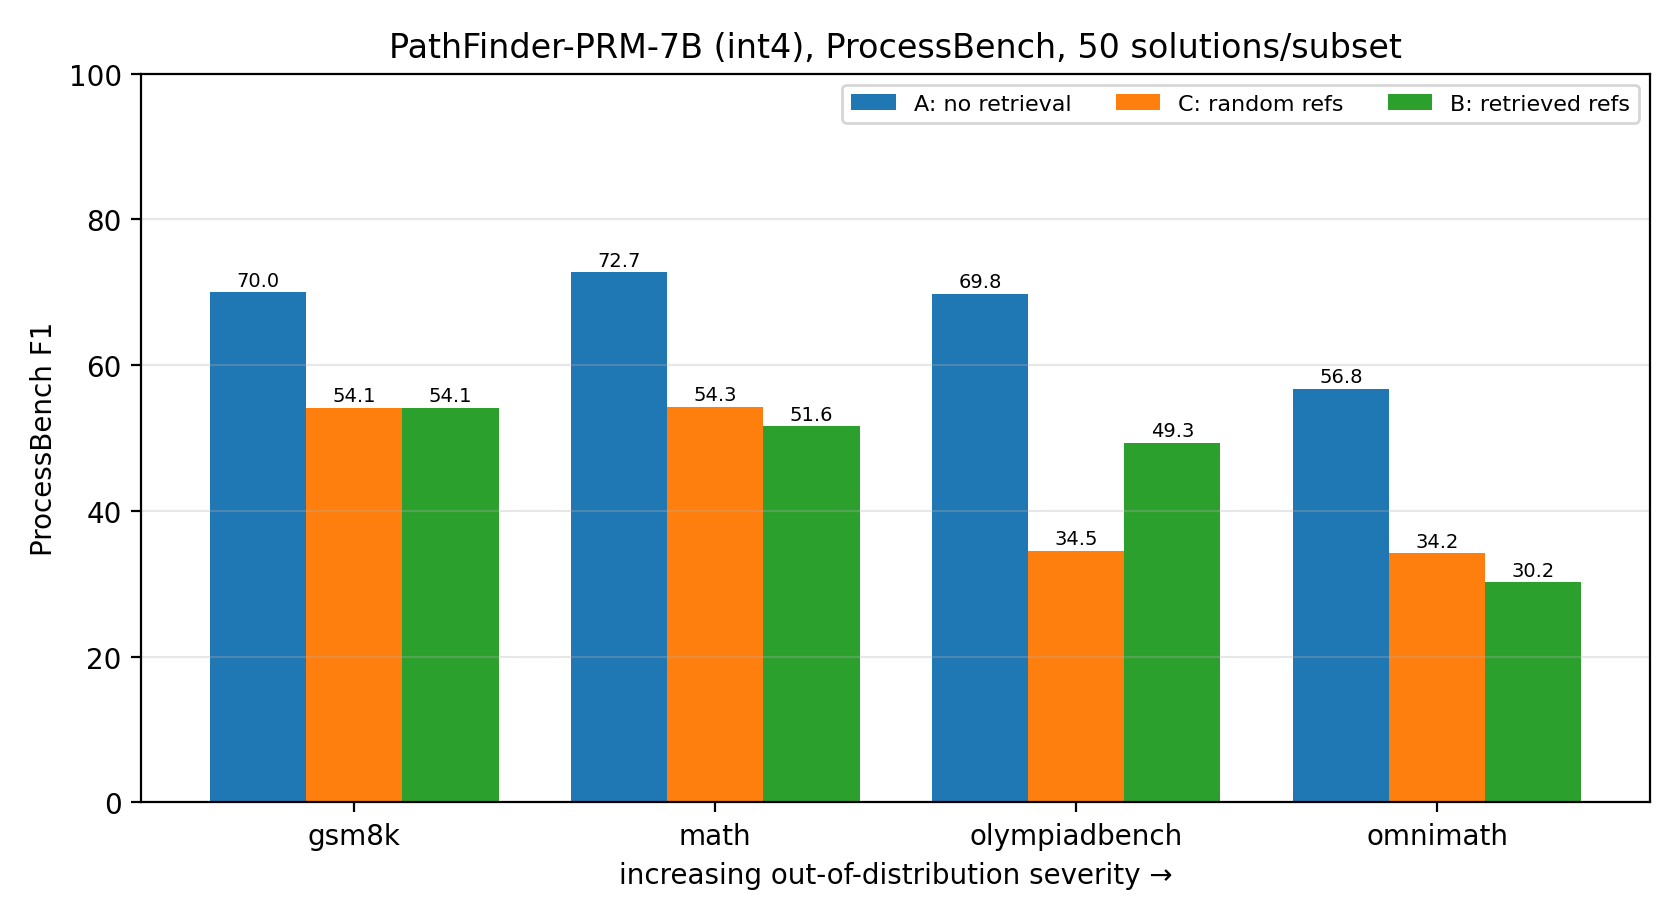
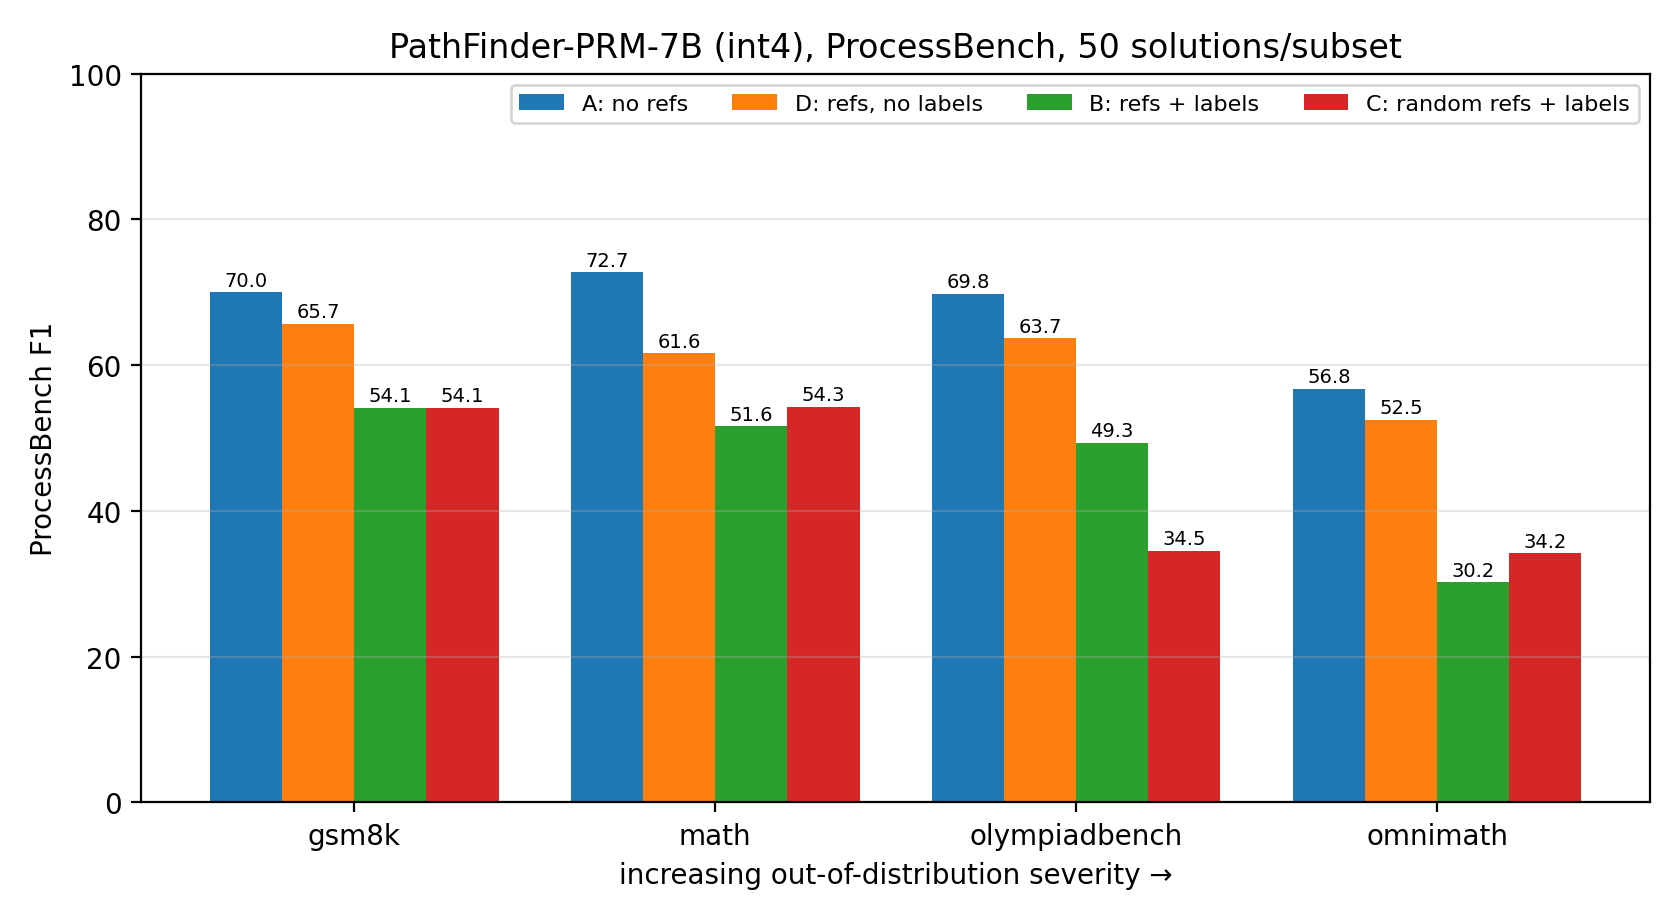
docs: decompose the context penalty with the unlabelled-reference arm
Condition D runs Condition B's retrieval with prompt.include_reference_labels
off, which is the one comparison that separates "the references are in the
prompt" from "the references carry the model's own verdict tokens".

    A  no references                    67.3
    D  references, labels stripped      60.9   -6.5 vs A
    B  references with gold labels      46.3  -21.0 vs A
    C  random references, gold labels   44.3  -23.0 vs A

D to B is -14.6 with a 95% interval of [-22.0, -7.1] and 50 discordant
solutions at p < 0.0001, holding at -15.6 after contamination cleaning. A to D
is -6.5, marginal on the full sample and straddling zero once contaminated items
are dropped. So roughly two thirds of the penalty arrives with a single rendered
line per reference, and the reference text itself costs little that this sample
can demonstrate.

The verdict profile says the same thing behaviourally. The labelled arms condemn
steps about a step earlier than the truth and halt after 3.7 steps instead of
4.9; D sits next to the baseline at +0.12 index offset and 4.6 steps. The
decision point moves when the model is shown <+> and <-> in its context, not
when the prompt merely gets longer.

Whether the tokens themselves are the cause, as opposed to the extra line or the
judgement it expresses, is untested and listed as such. Rendering the same
judgements as plain words would separate the two cheaply.

diff --git a/docs/RESULTS.md b/docs/RESULTS.md
@@ -4,13 +4,24 @@ Run on 17 September 2026, RTX 5070 Laptop (8 GB), PathFinder-PRM-7B quantised to
 torchao. Four conditions, 50 solutions per ProcessBench subset, 200 solutions per arm, the
 same 200 solutions in every arm.
 
-**Retrieval does not help PathFinder-PRM's error typing. Putting reference examples in the
-prompt at all costs about 21 F1 points, and whether those references are relevant makes no
-measurable difference.**
+**Retrieval does not help PathFinder-PRM's error typing, and most of what goes wrong is not
+the retrieval at all.** Adding retrieved references costs 21 F1 points, but two thirds of
+that comes from rendering each reference's gold judgement as the model's own `<+>` / `<->`
+tokens inside the prompt. Strip the labels and the cost falls to about 6 points. Replace the
+retrieved references with random ones and nothing changes at all.
 
-The second half of that sentence is the part that needed a control, and it is the part that
-would have been missed without one. Condition B on its own looks like evidence that
-retrieval is actively harmful. It isn't. Random references hurt just as much.
+| | F1 | against A |
+| --- | ---: | ---: |
+| **A** no references | **67.3** | |
+| **D** references, labels stripped | 60.9 | −6.5 |
+| **B** references with gold labels | 46.3 | −21.0 |
+| **C** random references with gold labels | 44.3 | −23.0 |
+
+Two comparisons carry the finding. **D → B is −14.6** (95% CI [−22.0, −7.1], pooled McNemar
+p < 0.0001 over 50 discordant solutions): the same references in the same positions, labels
+on versus off. **C → B is +2.0** ([−5.5, +9.1], p = 0.67), and −0.2 once pool-contaminated
+eval items are dropped from both arms: relevance, with prompt length held fixed, does nothing
+measurable.
 
 ---
 
@@ -19,9 +30,9 @@ retrieval is actively harmful. It isn't. Random references hurt just as much.
 | | Retrieval | References | Config | Run |
 | --- | --- | --- | --- | --- |
 | **A** baseline | off | none | `pilot-int4.yaml` | `runs/int4-a` |
-| **B** retrieval | on | 2 per step, ranked by similarity | `pilot-int4-retrieval.yaml` | `runs/int4-b` |
-| **C** control | on | 2 per step, drawn uniformly at random | `pilot-int4-random.yaml` | `runs/int4-c` |
-| **D** ablation | on | 2 per step, ranked, gold labels stripped | `pilot-int4-nolabels.yaml` | `runs/int4-d` |
+| **B** retrieval | on | 2 per step, ranked, with gold labels | `pilot-int4-retrieval.yaml` | `runs/int4-b` |
+| **C** control | on | 2 per step, random, with gold labels | `pilot-int4-random.yaml` | `runs/int4-c` |
+| **D** ablation | on | 2 per step, ranked, labels stripped | `pilot-int4-nolabels.yaml` | `runs/int4-d` |
 
 Everything else is held fixed: same weights, same int4 quantisation, same 0.5 threshold,
 same 4096-token budget, same contamination guard, same solutions in the same order. The
@@ -46,36 +57,43 @@ ones per subset, and F1 over that is undefined. See
 The paper reports 69.5 at bf16 over the full 3,400 solutions. We get 67.3 at int4 over 200.
 Two points of that gap are unsurprising: quantisation perturbs the `<+>` / `<->` logits the
 verdict is read from, and a 50-solution subset has a standard error of several points on its
-own. The ordering across subsets also comes out as expected, with omnimath weakest.
+own. The ordering across subsets comes out as expected, with omnimath weakest.
 
 This is the anchor. Without it there would be no reason to believe anything downstream.
 
-## Adding references costs about 21 points
+## The decomposition
 
-![Condition A, C and B by subset](figures/arms.png)
+![Conditions A, D, B and C by subset](figures/arms.png)
 
-| Subset | A | B | Δ | 95% CI on Δ | McNemar p | discordant |
-| --- | ---: | ---: | ---: | --- | ---: | ---: |
-| gsm8k | 70.0 | 54.1 | −15.9 | [−35.1, +4.0] | 0.039 | 15 |
-| math | 72.7 | 51.6 | −21.1 | [−38.0, −6.2] | 0.034 | 18 |
-| olympiadbench | 69.8 | 49.3 | −20.5 | [−35.3, −8.9] | 0.009 | 12 |
-| omnimath | 56.8 | 30.2 | −26.6 | [−42.6, −12.3] | 0.001 | 14 |
-| **average** | **67.3** | **46.3** | **−21.0** | | | |
+| Subset | A | D (no labels) | B (labels) | C (random) | A→D | D→B |
+| --- | ---: | ---: | ---: | ---: | ---: | ---: |
+| gsm8k | 70.0 | 65.7 | 54.1 | 54.1 | −4.3 | −11.6 |
+| math | 72.7 | 61.6 | 51.6 | 54.3 | −11.1 | −10.0 |
+| olympiadbench | 69.8 | 63.7 | 49.3 | 34.5 | −6.2 | −14.4 |
+| omnimath | 56.8 | 52.5 | 30.2 | 34.2 | −4.3 | −22.3 |
+| **average** | **67.3** | **60.9** | **46.3** | **44.3** | **−6.5** | **−14.6** |
 
-Three of four per-subset intervals exclude zero. Pooled over all 200 paired solutions the
-average delta is −21.0 with a 95% interval of [−29.5, −13.0], and the paired test is
-unambiguous: 59 solutions where exactly one arm was right, 51 of them broken by B against 8
-fixed, p < 0.0001. That pooled test clears the 25-discordant bar the project set for itself;
-the per-subset ones (12 to 18) do not, which is why they are quoted here as description
-rather than evidence.
+Read across a row and the 21-point drop pulls apart into two very different effects.
 
-Both halves of the metric fall in every subset — the model finds fewer of the real errors
-*and* flags more clean solutions — so this is not a threshold sitting in the wrong place.
+**Reference text costs about six points, and the evidence for even that is thin.** A→D is
+−6.5 with an interval of [−12.8, −1.5] and 21 discordant solutions, under the 25 the paired
+test needs. On contamination-cleaned data it is −5.7 with an interval of [−13.0, +0.3],
+which straddles zero. Call it a small cost, not a demonstrated one.
 
-The retrieval itself worked. Two references per query, mean question similarity 0.618, mean
-step similarity 0.502, 77 exact duplicates and 6 near-duplicates dropped by the guard, no
-empty results, and no reference discarded for length. Whatever went wrong, it was not the
-retriever.
+**The gold labels cost fourteen, and that one is solid.** D→B is −14.6, interval
+[−22.0, −7.1], 50 discordant solutions, p < 0.0001, and it holds at −15.6 after contamination
+cleaning. The two arms differ in exactly one thing: whether each reference ends with a line
+like
+
+```
+Teacher's judgement: Math reasoning: <->, Consistency: <-> (math and consistency error)
+```
+
+`<+>` and `<->` are not decoration. They are the two tokens whose logits the scoring rule
+compares at the mask positions to produce the verdict. Condition B puts four of them into the
+user turn on every query. The prompt builder already guards against `<extra>` leaking into
+the user turn, since a stray mask token would add a phantom scoring position; the verdict
+tokens were never treated as equally dangerous, and on this evidence they are.
 
 ## The control: relevance is not what matters
 
@@ -87,60 +105,68 @@ retriever.
 | omnimath | 56.8 | 34.2 | 30.2 | −22.6 | −4.0 |
 | **average** | **67.3** | **44.3** | **46.3** | **−23.0** | **+2.0** |
 
-Random references cost 23 points. Ranked ones give back 2.0 on average, and no subset's
-interval excludes zero (p = 0.68, 1.00, 0.10, 0.80). The +14.8 on olympiadbench is the only
-large value in the C→B column and it sits inside a [−0.0, +29.7] interval with 13 discordant
-solutions, which at this sample size is what noise looks like.
-
-Pooled, the relevance contrast is as flat as it looks: average delta +2.0, interval
-[−5.5, +9.1], and 48 discordant solutions split almost evenly — 26 that retrieval fixed
-against 22 that it broke, p = 0.67. This is the one place where pooling does more than
-tidy up the presentation. With 48 discordant pairs the test is adequately powered by the
-project's own standard, so "no detectable effect" here means the effect was measured and
-came out near zero, not that the sample was too small to see it.
+Random references cost 23 points, ranked ones 21. Pooled, the relevance contrast is +2.0 with
+an interval of [−5.5, +9.1] and 48 discordant solutions splitting almost evenly — 26 that
+retrieval fixed against 22 it broke, p = 0.67. With 48 discordant pairs the test is
+adequately powered by the project's own standard, so this is an effect that was measured and
+came out near zero, not one the sample was too small to see.
 
 That the control really was a control is visible in its own counters: C drew the same 2.00
-references per query as B, with mean step similarity 0.002 against B's 0.502. The two arms
-differ in relevance and in nothing else that we can measure.
+references per query as B, with mean step similarity 0.002 against B's 0.502.
+
+The +14.8 on olympiadbench is the only large value in the C→B column, sits inside a
+[−0.0, +29.7] interval, and does not survive the contamination-cleaned recomputation.
+
+## With contaminated items removed, relevance buys nothing at all
+
+59.6% of the MATH subset appears verbatim in PathFinder-600K. The retrieval guard filters
+those questions' *neighbours*, but the questions themselves are still graded, so MATH is
+treated differently from the clean subsets. Dropping all 633 flagged solutions from both arms
+leaves 173 of the 200 (math falls to 24):
+
+| Contrast | full sample | contaminated items removed |
+| --- | ---: | ---: |
+| A→B | −21.0 | −21.3 |
+| A→C | −23.0 | −21.1 |
+| A→D | −6.5 | −5.7 |
+| D→B | −14.6 | −15.6 |
+| **C→B** | **+2.0** | **−0.2** |
+
+The +2.0 was coming from the contaminated half of MATH. On clean data the relevance effect is
+−0.2 points, interval [−10.2, +9.1], pooled p = 0.88 over 42 discordant solutions.
 
 ## How the verdicts change: the model pulls the trigger sooner
 
-F1 falling by 21 points could mean the grader stopped finding errors, started inventing
-them, or kept finding them in the wrong place. It is the second and third, and the traces
-say so plainly. Over the 200 shared solutions (127 with an error, 73 clean):
+F1 falling could mean the grader stopped finding errors, started inventing them, or kept
+finding them in the wrong place. Over the 200 shared solutions (127 with an error, 73 clean):
 
-| | A | C (random) | B (retrieved) |
-| --- | ---: | ---: | ---: |
-| false alarms — clean solutions flagged | 16.4% | 39.7% | 41.1% |
-| misses — errors waved through | 10.2% | 7.9% | 7.1% |
-| exact index, of those flagged | 65.8% | 38.5% | 42.4% |
-| flagged too early | 12.3% | 49.6% | 41.5% |
-| flagged too late | 21.9% | 12.0% | 16.1% |
-| mean index offset (predicted − gold) | +0.32 | −1.03 | −0.90 |
-| mean steps scored per solution | 4.92 | 3.66 | 3.67 |
+| | A | D (no labels) | B (labels) | C (random) |
+| --- | ---: | ---: | ---: | ---: |
+| false alarms — clean solutions flagged | 16.4% | 26.0% | 41.1% | 39.7% |
+| misses — errors waved through | 10.2% | 11.0% | 7.1% | 7.9% |
+| exact index, of those flagged | 65.8% | 62.8% | 42.4% | 38.5% |
+| flagged too early | 12.3% | 15.9% | 41.5% | 49.6% |
+| flagged too late | 21.9% | 21.2% | 16.1% | 12.0% |
+| mean index offset (predicted − gold) | +0.32 | +0.12 | −0.90 | −1.03 |
+| mean steps scored per solution | 4.92 | 4.62 | 3.67 | 3.66 |
 
-References make the model quicker to condemn a step. Its mean blame lands almost a full step
-earlier than the truth, against a third of a step late for the baseline, and with `early_stop`
-on it halts after 3.7 steps instead of 4.9. Everything else follows from that. False alarms
-on clean solutions go up by a factor of two and a half. Exact-index accuracy collapses
-because the model blames a step before the one that actually breaks. The one number that
-improves is the miss rate, from 10.2% to 7.1%, which is what a lower effective threshold
-should do.
+The labelled arms condemn steps about a step earlier than the truth, against a third of a step
+*late* for the baseline, and with `early_stop` on they halt after 3.7 steps instead of 4.9.
+Everything else follows: false alarms on clean solutions rise two and a half times,
+exact-index accuracy collapses because the blame lands before the real break, and the only
+figure that improves is the miss rate, which is what a lower effective threshold does.
 
-So this is not the model becoming worse at mathematics. It is the same model with its
-decision point moved, and the harmonic mean of ProcessBench punishes that hard: a grader
-that flags everything scores zero.
+Condition D barely moves any of this. Its index offset is +0.12 against A's +0.32, and it
+scores 4.6 steps per solution against A's 4.9. The decision point does not shift because the
+prompt got longer, or because other people's solutions are sitting in it. It shifts when the
+model is shown its own verdict tokens.
 
-Here too C and B are the same arm to within noise — 39.7% against 41.1% false alarms,
-−1.03 against −0.90 index offset. Whatever moves the decision point, it is not the content
-of the references.
+The obvious hypothesis is that `<->` tokens in the reference block bias the comparison at the
+mask positions directly. This run does not test that. Rendering the same judgements as plain
+words, or restricting references to error-free examples, would separate "the token" from "the
+judgement it encodes", and both are cheap to run.
 
 ### Within Condition B, better retrieval does not mean less damage
-
-The control answers this between arms. The traces answer it again inside the treatment arm,
-for free: each step records the similarity of the references it was given, so B's solutions
-can be split by how good their retrieval actually was and compared against A on those same
-solutions.
 
 | bin | n | mean reference similarity | A | B | Δ |
 | ---: | ---: | ---: | ---: | ---: | ---: |
@@ -148,74 +174,53 @@ solutions.
 | 2 | 66 | 0.527 | 66.7% | 40.9% | −25.8 |
 | 3 | 67 | 0.637 | 71.6% | 52.2% | −19.4 |
 
-(Solution-level accuracy, exact first-error index.) The solutions with the best retrieval
-lose as much as the solutions with the worst. Retrieval quality varies by more than half a
-standard deviation across these bins and the damage does not follow it.
-
-Reproduce with:
-
-```bash
-python scripts/error_analysis.py --runs A=runs/int4-a C=runs/int4-c B=runs/int4-b     --similarity-bins runs/int4-b runs/int4-a
-```
-
-## With contaminated items removed, relevance buys nothing at all
-
-59.6% of the MATH subset appears verbatim in PathFinder-600K. The retrieval guard filters
-those questions' *neighbours*, but the questions themselves are still graded, so MATH is
-being treated differently from the clean subsets. Dropping all 633 flagged solutions from
-both arms leaves 173 of the 200 (math falls to 24):
-
-| Contrast | full sample | contaminated items removed |
-| --- | ---: | ---: |
-| A→B | −21.0 | −21.3 |
-| A→C | −23.0 | −21.1 |
-| **C→B** | **+2.0** | **−0.2** |
-
-The +2.0 was coming from the contaminated half of MATH. On clean data the relevance effect
-is −0.2 points with an interval of [−10.2, +9.1] and a pooled p of 0.88 over 42 discordant
-solutions. The headline does not move: adding references still costs about 21 points either
-way.
+(Solution-level accuracy, exact first-error index.) The solutions with the best retrieval lose
+as much as the solutions with the worst. Retrieval quality varies by more than half a standard
+deviation across these bins and the damage does not follow it.
 
 ## The difficulty trend runs backwards
 
-RetrievalPRM's case rested on gains that grew with problem difficulty, and the project was
-written to look for the same signature. The signature is there, with the sign flipped:
+RetrievalPRM's case rested on gains that grew with problem difficulty, and this project was
+written to look for the same signature. The signature is there with the sign flipped: A→B is
 −15.9, −21.1, −20.5, −26.6 across gsm8k → math → olympiadbench → omnimath, slope −3.1 F1 per
-severity rank, Spearman −0.80.
+severity rank, Spearman −0.80. The label effect follows the same shape (−11.6, −10.0, −14.4,
+−22.3), which fits a grader with less slack to lose on harder problems.
 
-The obvious reading is that the harder the problem, the more the model has to lose from a
-distracted context. The honest reading is that four points and a rank correlation are not
-much to build on, and the analysis code declines to call it a trend for that reason.
+Four points and a rank correlation are not much to build on, and the analysis code declines to
+call it a trend for that reason.
 
 ## What this does not show
 
-- **Nothing here transfers to bf16.** Every number is int4. A-vs-B deltas are valid because
-  both arms ran at identical precision; absolute F1 is not comparable to the paper's 69.5,
-  even though A lands close to it.
+- **Nothing here transfers to bf16.** Every number is int4. Deltas between arms are valid
+  because all arms ran at identical precision; absolute F1 is not comparable to the paper's
+  69.5, even though A lands close to it.
+- **The token-level mechanism is a hypothesis.** The labels cost 14.6 points. That is not the
+  same as showing the `<+>` / `<->` tokens specifically are the cause, rather than the extra
+  line of text or the judgement it expresses.
 - **Per-subset statistics are thin.** 50 solutions per subset gives intervals ±15 to ±20
-  points wide, and each per-subset McNemar has only 11 to 20 discordant solutions. The
-  pooled contrasts are the ones to quote; the per-subset rows show shape, not significance.
+  points wide and 11 to 21 discordant solutions per test. The pooled contrasts are the ones to
+  quote; per-subset rows show shape, not significance.
 - **A null is not proof of absence.** The relevance contrast is bounded, not zeroed: the
-  pooled interval runs [−10.2, +9.1] on clean data. That rules out retrieval buying the
-  6-13 points the source papers report. It does not rule out two or three points, which
-  would need roughly ten times this sample.
+  pooled interval runs [−10.2, +9.1] on clean data. That rules out retrieval buying the 6-13
+  points the source papers report. It does not rule out two or three.
 - **One retrieval configuration.** Two references per step, MiniLM embeddings, PCA to 128
-  dimensions, a 50K-item pool, guard at cosine 0.95. A different k or a different pool might
-  behave differently, though the size of the context penalty makes that look unpromising.
+  dimensions, a 50K-item pool, guard at cosine 0.95. The sensitivity checks the protocol
+  recommends (guard at 0.85 and 0.99, `top_k_steps: 4`) have not been run.
 
 ## Cost
 
 | Arm | Solutions | Wall time | Per solution |
 | --- | ---: | ---: | ---: |
 | A | 200 | 55 min | 16.6 s |
-| B | 200 | 3 h 07 min | 56.0 s |
 | C | 200 | 2 h 38 min | 47.4 s |
+| B | 200 | 3 h 07 min | 56.0 s |
+| D | 200 | 4 h 59 min | 89.7 s |
 
-No arm was resumed, so these are honest throughput figures. B and C cost three times what A
-does for the same solutions, entirely because their prompts are longer; profiling elsewhere
-puts the retrieval machinery itself at about 1% of step time. On 8 GB of VRAM the longest
-omnimath solutions in B pushed allocation into shared system memory and slowed to roughly
-24 s per step, which is worth knowing before anyone plans a full-benchmark run on a laptop.
+No arm was resumed, so these are honest throughput figures. D is the slowest even though its
+prompts are shorter than B's, because it rejects fewer steps and `early_stop` therefore saves
+it less work. On 8 GB of VRAM the longest omnimath solutions push allocation into shared
+system memory and slow to roughly 24 s per step, which is worth knowing before planning a
+full-benchmark run on a laptop.
 
 ## Reproducing
 
@@ -226,10 +231,18 @@ bash scripts/lightning/run_experiment.sh \
     --config-c configs/pilot-int4-random.yaml \
     --limit 50 --stages a,b,c,compare
 
-python scripts/run_eval.py --config configs/pilot-int4-nolabels.yaml --limit 50   # arm D
-python scripts/plot_arms.py --runs "A=runs/int4-a" "C=runs/int4-c" "B=runs/int4-b" \
-    --out runs/comparison/arms.png
+python scripts/run_eval.py --config configs/pilot-int4-nolabels.yaml --limit 50
+python scripts/compare_runs.py --a runs/int4-a --b runs/int4-d \
+    --out runs/comparison-a-vs-nolabels --exclude-contaminated runs/contamination.json
+python scripts/compare_runs.py --a runs/int4-d --b runs/int4-b \
+    --out runs/comparison-nolabels-vs-b --exclude-contaminated runs/contamination.json
+
+python scripts/plot_arms.py --out runs/comparison/arms.png \
+    --runs "A: no refs=runs/int4-a" "D: refs, no labels=runs/int4-d" \
+           "B: refs + labels=runs/int4-b" "C: random refs + labels=runs/int4-c"
+python scripts/error_analysis.py \
+    --runs A=runs/int4-a D=runs/int4-d B=runs/int4-b C=runs/int4-c \
+    --similarity-bins runs/int4-b runs/int4-a
 ```
 
-Numbers, intervals and tests live in `runs/comparison/`, `runs/comparison-a-vs-control/` and
-`runs/comparison-control-vs-b/`, each with an `uncontaminated-` twin.
+Numbers, intervals and tests live in `runs/comparison*/`, each with an `uncontaminated-` twin.

diff --git a/README.md b/README.md
@@ -40,18 +40,24 @@ error-typing gets better — especially on out-of-distribution problems.
 
 ## Answer
 
-**No, and the reason is not what the headline number suggests.**
+**No — and two thirds of the damage turns out to have nothing to do with retrieval.**
 
-Adding retrieved references costs PathFinder-PRM about 21 F1 points. But a control arm that
-injects the *same number of references drawn at random* costs 23 points — so the damage
-comes from putting reference text in the prompt at all, not from retrieval. Ranked
-references beat random ones by 2.0 points on the full sample and by −0.2 once
-pool-contaminated eval items are excluded from both arms. No subset's interval excludes
-zero.
+Adding retrieved references costs about 21 F1 points. Four arms take that apart:
 
-| | A: no retrieval | C: random refs | B: retrieved refs |
-| --- | ---: | ---: | ---: |
-| average F1 | **67.3** | 44.3 | 46.3 |
+| | average F1 | vs A |
+| --- | ---: | ---: |
+| **A** no references | **67.3** | |
+| **D** references, gold labels stripped | 60.9 | −6.5 |
+| **B** references with gold labels | 46.3 | −21.0 |
+| **C** *random* references with gold labels | 44.3 | −23.0 |
+
+Most of the loss arrives with the labels, not the examples. Each reference in Condition B
+ends with `Teacher's judgement: Math reasoning: <->, Consistency: <->` — and `<+>`/`<->` are
+the very tokens whose logits the scoring rule compares to produce a verdict. Removing that
+line recovers 14.6 points (95% CI [−22.0, −7.1], p < 0.0001).
+
+Relevance itself does nothing: C→B is +2.0 with an interval spanning zero, and −0.2 once
+pool-contaminated eval items are dropped from both arms.
 
 Condition A lands at 67.3 against the paper's published 69.5, which is the anchor that makes
 the rest believable. Measured at int4 on 50 solutions per subset; deltas are valid between
